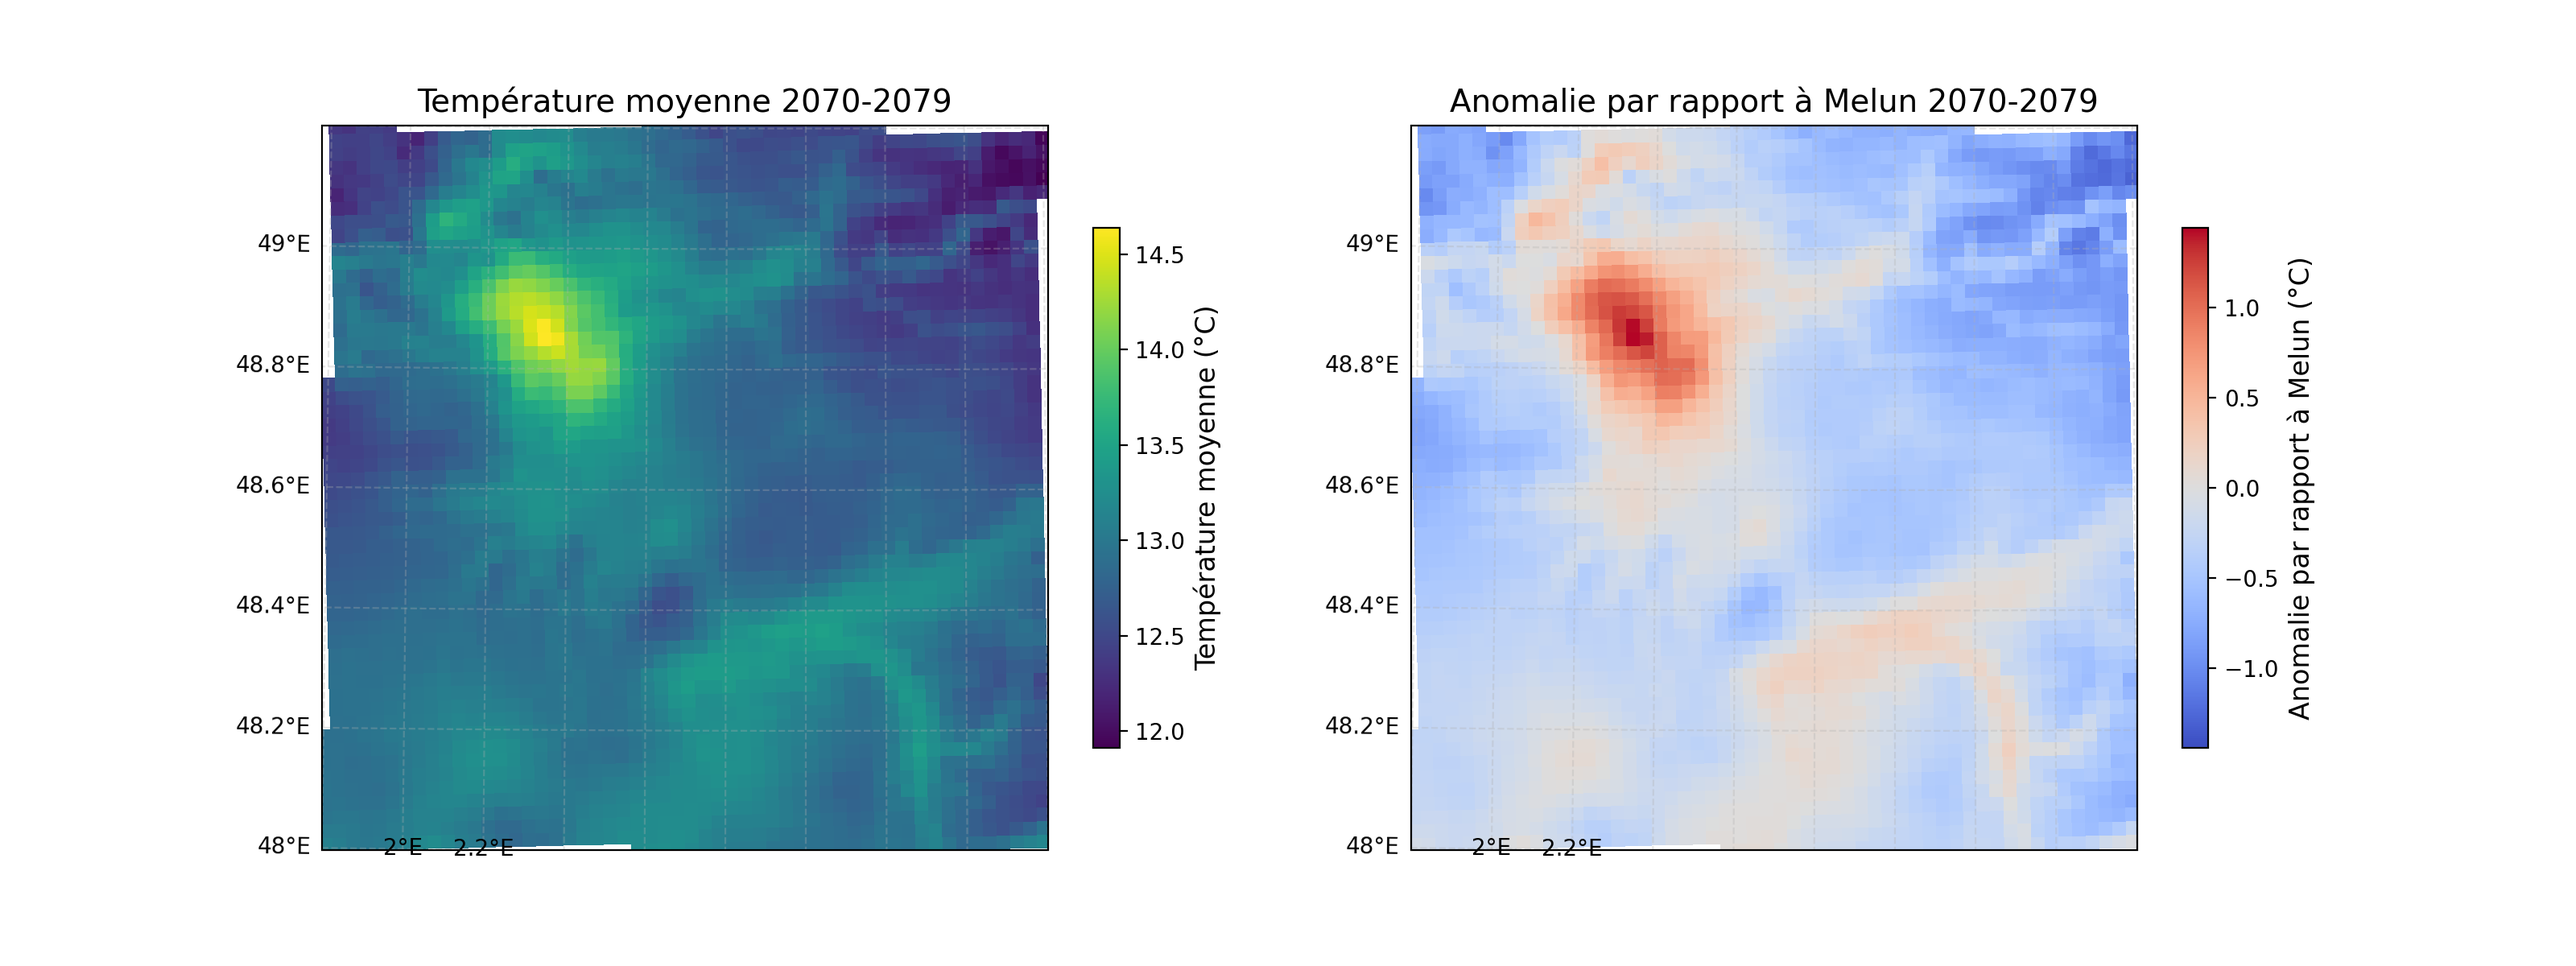
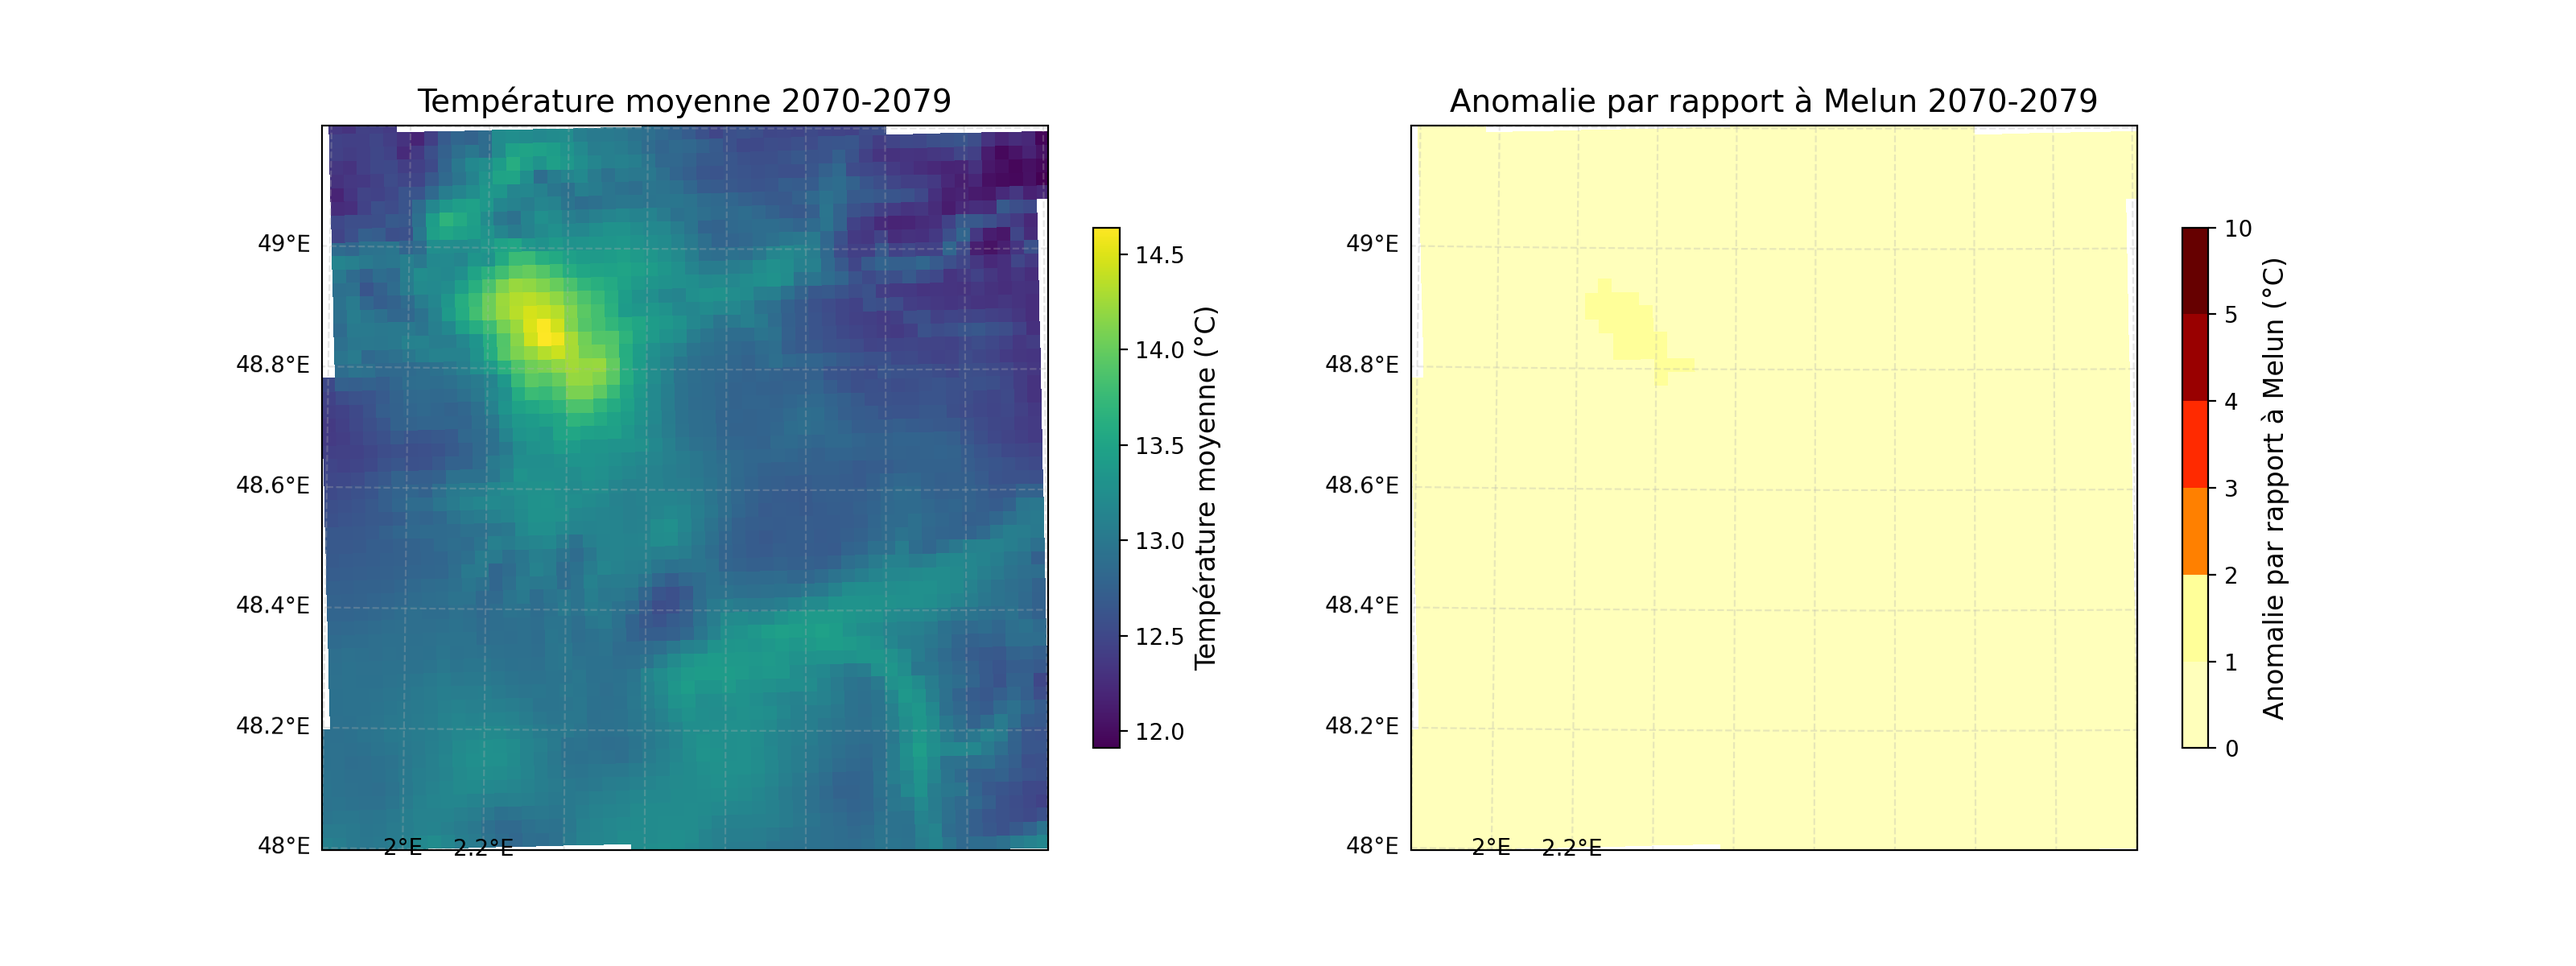
Echelle de couleur pour ICU

Changed region(s): [[0.5312, 0.1233, 0.9062, 0.8942]]

diff --git a/get_tempé_campagne.py b/get_tempé_campagne.py
@@ -2,6 +2,7 @@ import xarray as xr
 import numpy as np
 import matplotlib.pyplot as plt
 import matplotlib as mpl
+import matplotlib.colors as colors
 import cartopy.crs as ccrs
 from cartopy.mpl.gridliner import LONGITUDE_FORMATTER, LATITUDE_FORMATTER
 import matplotlib.ticker as mticker
@@ -117,6 +118,12 @@ gl.yformatter = LONGITUDE_FORMATTER
 gl.xlocator = mticker.FixedLocator(np.arange(lon_lim_idf[0], lon_lim_idf[1]+0.1, 0.2))
 gl.ylocator = mticker.FixedLocator(np.arange(lat_lim_idf[0], lat_lim_idf[1]+0.1, 0.2))
 
+#colormap
+cmap = colors.ListedColormap(['#ffffbb', '#ffff99', '#ff8000', '#ff2a00', '#990000', '#660000'])
+boundaries = [0, 1, 2, 3, 4, 5, 10]
+norm = colors.BoundaryNorm(boundaries, cmap.N, clip=True)
+
+
 mm0 = ax.pcolormesh(
     lons_data, lats_data, moy_data,
     vmin=np.nanmin(moy_data), vmax=np.nanmax(moy_data),
@@ -144,9 +151,8 @@ gl.ylocator = mticker.FixedLocator(np.arange(lat_lim_idf[0], lat_lim_idf[1]+0.1,
 
 mm1 = ax.pcolormesh(
     lons_data, lats_data, anomalie_par_melun,
-    vmin=-np.nanmax(abs(anomalie_par_melun)),
-    vmax=np.nanmax(abs(anomalie_par_melun)),
-    cmap='coolwarm', shading='auto',
+    norm=norm,
+    cmap=cmap, shading='auto',
     transform=ccrs.PlateCarree()
 )
 cbar1 = plt.colorbar(mm1, ax=ax, orientation='vertical', shrink=0.7)
